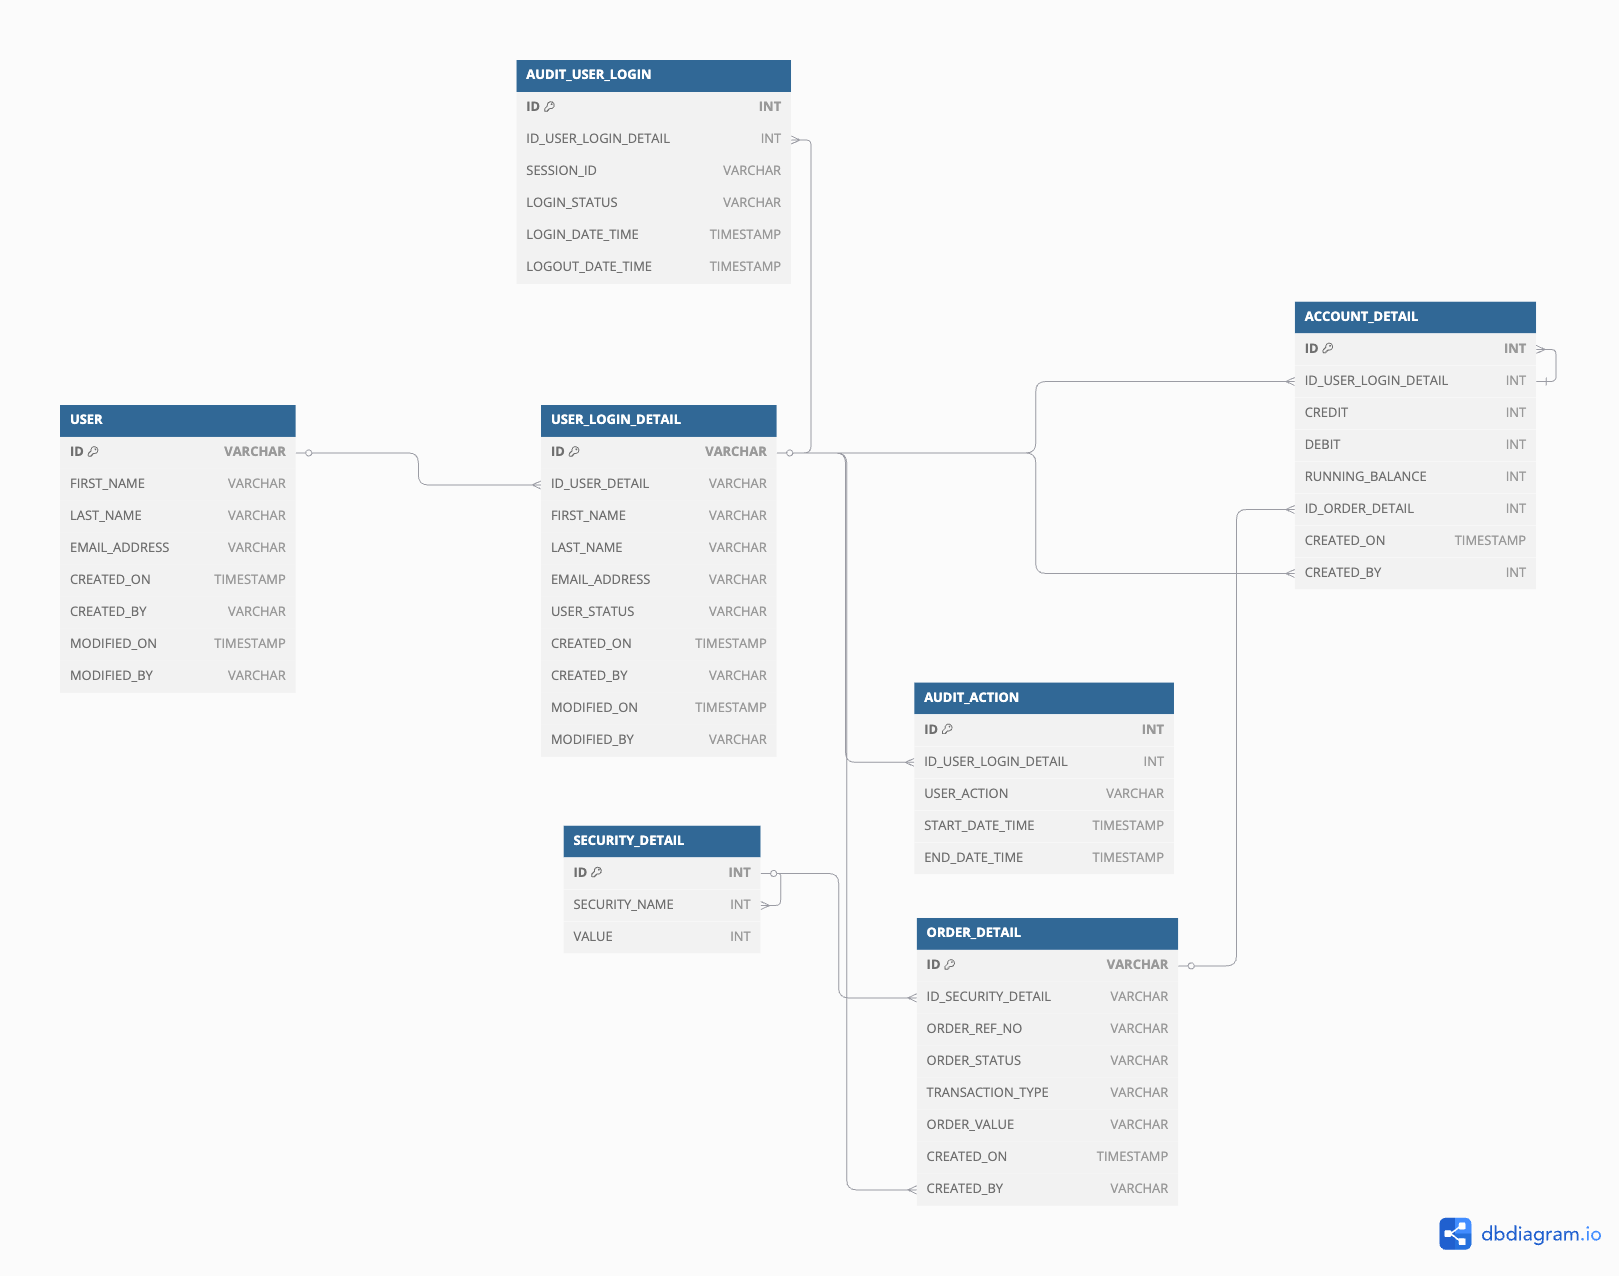
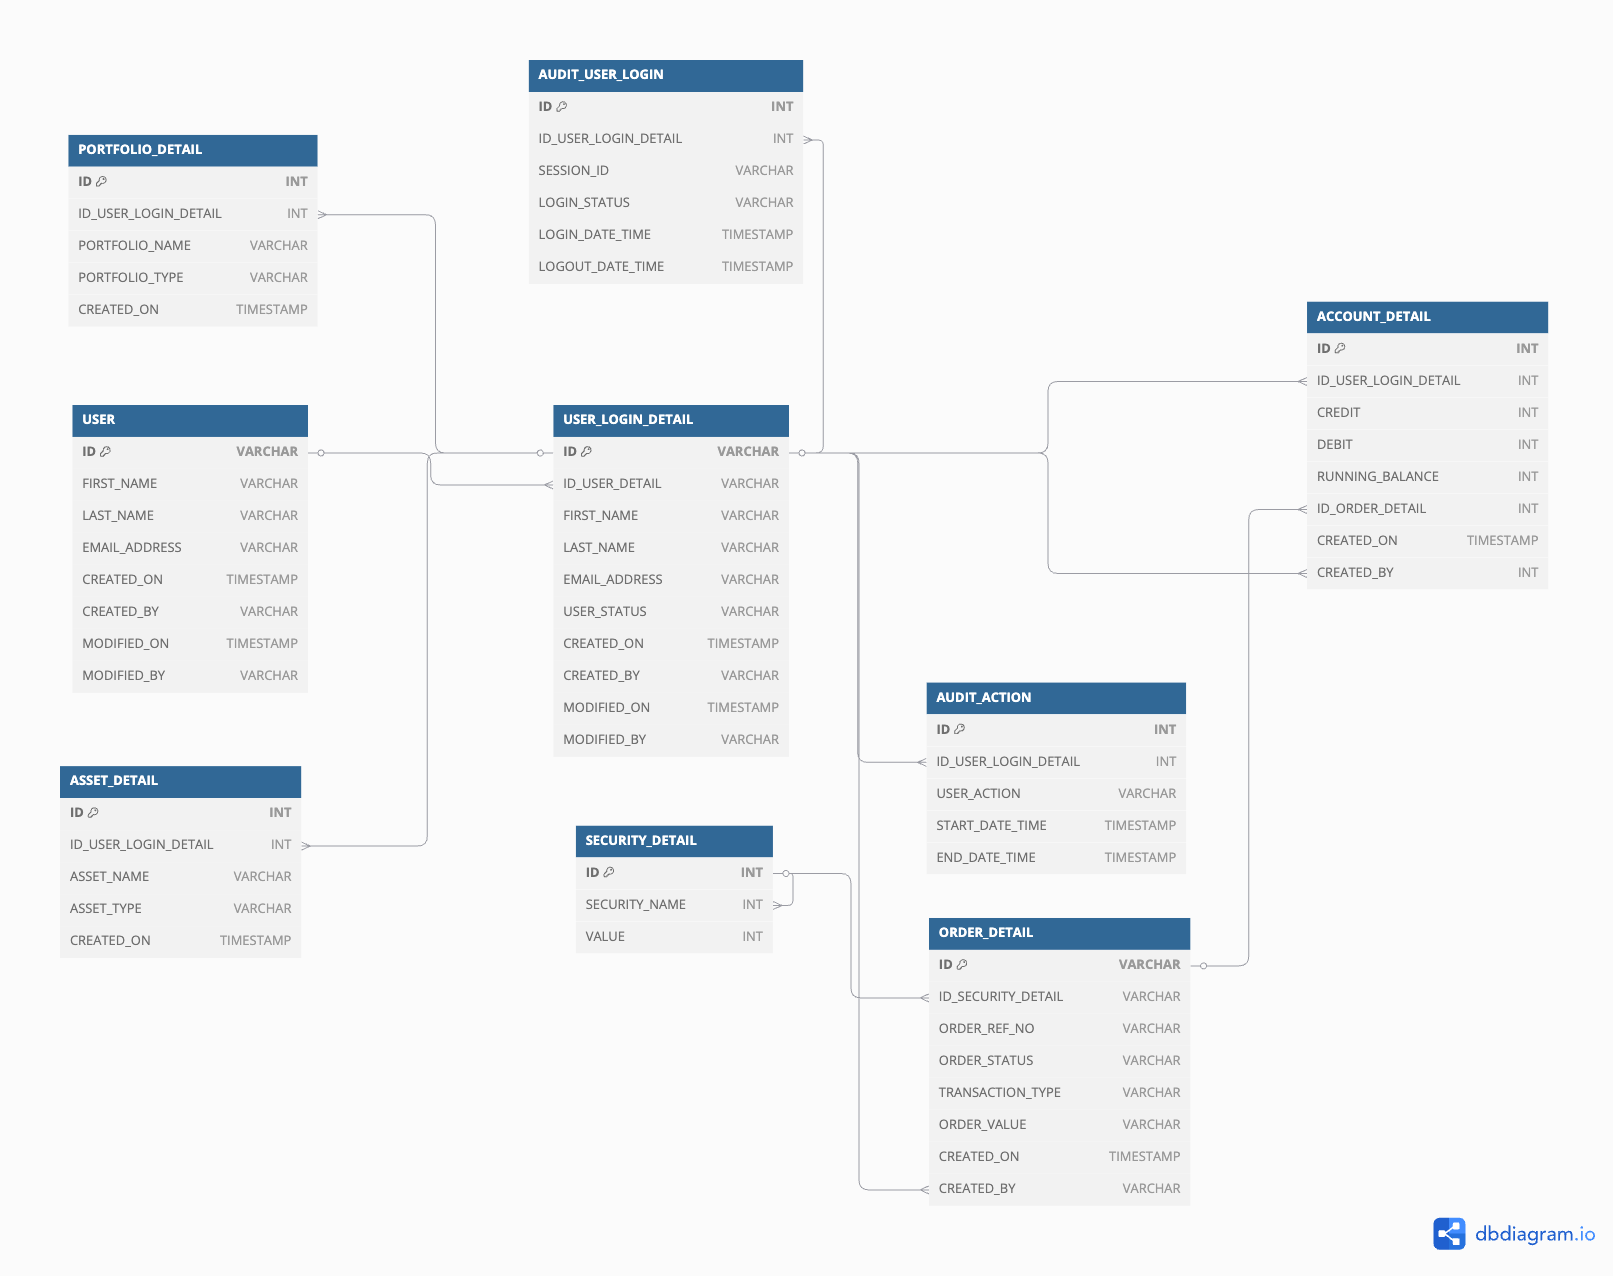
feat: added CRUD and model for portfolio

diff --git a/server/src/api/controllers/portfolio.controller.ts b/server/src/api/controllers/portfolio.controller.ts
@@ -1,0 +1,67 @@
+import { Request, Response, NextFunction } from 'express';
+import PortfolioDetail from '../../models/PortfolioDetails.model';
+import { successMiddleware } from '../middlewares/success.middleware';
+
+class PortfolioController {
+  async getAll(_req: Request, res: Response, next: NextFunction) {
+    try {
+      const portfolios = await PortfolioDetail.find();
+      successMiddleware(portfolios, true, res);
+    } catch (err) {
+      next(err);
+    }
+  }
+
+  async getById(req: Request, res: Response, next: NextFunction) {
+    try {
+      const portfolio = await PortfolioDetail.findById(req.params.id);
+      if (!portfolio) return res.status(404).json({ message: 'portfolio not found' });
+      successMiddleware(portfolio, true, res);
+    } catch (err) {
+      next(err);
+    }
+  }
+
+  async create(req: Request, res: Response, next: NextFunction) {
+    try {
+      const { portfolioName, portfolioType, idPortfolioLoginDetail } = req.body;
+
+      const portfolio = await PortfolioDetail.create({
+        portfolioName,
+        portfolioType,
+        createdOn: new Date(),
+        idPortfolioLoginDetail,
+      });
+      successMiddleware(portfolio, true, res, 201);
+    } catch (err) {
+      next(err);
+    }
+  }
+
+  async update(req: Request, res: Response, next: NextFunction) {
+    try {
+      const { id } = req.params;
+      const { portfolioName, portfolioType } = req.body;
+
+      const updatedPortfolio = await PortfolioDetail.findByIdAndUpdate(
+        id,
+        {
+          portfolioName,
+          portfolioType,
+          modifiedOn: new Date(),
+        },
+        { new: true, runValidators: true }
+      );
+
+      if (!updatedPortfolio) {
+        return res.status(404).json({ success: false, message: 'Portfolio not found' });
+      }
+
+      successMiddleware(updatedPortfolio, true, res, 200);
+    } catch (err) {
+      next(err);
+    }
+  }
+}
+
+export const portfolioController = new PortfolioController();

diff --git a/server/src/api/routes/portfolio.routes.ts b/server/src/api/routes/portfolio.routes.ts
@@ -1,5 +1,32 @@
 import express from "express";
+import { portfolioController } from '../controllers/portfolio.controller';
+import { validate } from '../middlewares/validate.middleware';
+import { createPortfolioSchema, idSchema, updatePortfolioSchema } from '../validations/portfolio.validation';
 
 const router = express.Router();
+
+
+router.get("/", portfolioController.getAll);
+
+router.get("/:id", validate(idSchema, "params"), portfolioController.getById);
+
+router.post(
+  "/",
+  validate(createPortfolioSchema, "body"),
+  portfolioController.create
+);
+
+router.put(
+  "/:id",
+  validate(idSchema, "params"),
+  validate(updatePortfolioSchema, "body"),
+  portfolioController.update
+);
+
+// router.delete(
+//   "/:id",
+//   validate(idSchema, "params"),
+//   portfolioController.delete
+// );
 
 export default router;

diff --git a/server/src/api/validations/portfolio.validation.ts b/server/src/api/validations/portfolio.validation.ts
@@ -1,0 +1,19 @@
+import { z } from "zod";
+
+export const createPortfolioSchema = z.object({
+  portfolioName: z.string().min(1, "Portfolio name is required"),
+  portfolioType: z.string().min(1, "Portfolio type is required"),
+});
+
+export const updatePortfolioSchema = z.object({
+  portfolioName: z.string().min(1).optional(),
+  portfolioType: z.string().min(1).optional(),
+  modifiedBy: z
+    .string()
+    .regex(/^[a-f\d]{24}$/i, "Invalid User ID")
+    .optional(),
+});
+
+export const idSchema = z.object({
+  id: z.string().regex(/^[a-f\d]{24}$/i, "Invalid ObjectId format"),
+});

diff --git a/server/src/models/AssetDetails.model.ts b/server/src/models/AssetDetails.model.ts
@@ -1,0 +1,12 @@
+import { Schema, model } from 'mongoose';
+
+const AssetDetailSchema = new Schema({
+  idUserLoginDetail: { type: String, required: true },
+  assetName: { type: String, required: true },
+  assetType: { type: String, required: true },
+  createdOn: { type: Date, default: Date.now },
+}, {
+  collection: 'asset_detail'
+});
+
+export default model('AssetDetail', AssetDetailSchema);

diff --git a/server/src/models/PortfolioDetails.model.ts b/server/src/models/PortfolioDetails.model.ts
@@ -1,0 +1,11 @@
+import { Schema, model } from 'mongoose';
+
+const PortfolioDetailSchema = new Schema({
+  createdOn: { type: Date, default: Date.now },
+  portfolioName: { type: String, required: true },
+  portfolioType: { type: String, required: true },
+}, {
+  collection: 'portfolio_detail'
+});
+
+export default model('PortfolioDetail', PortfolioDetailSchema);
